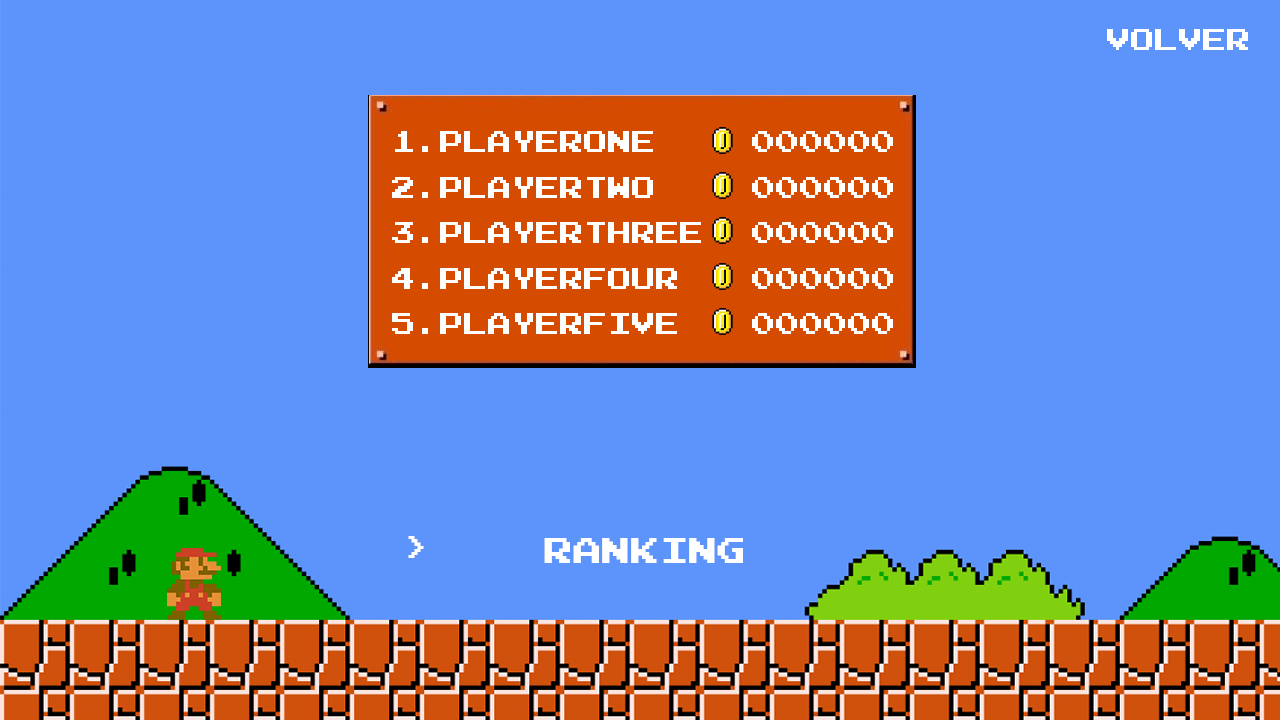
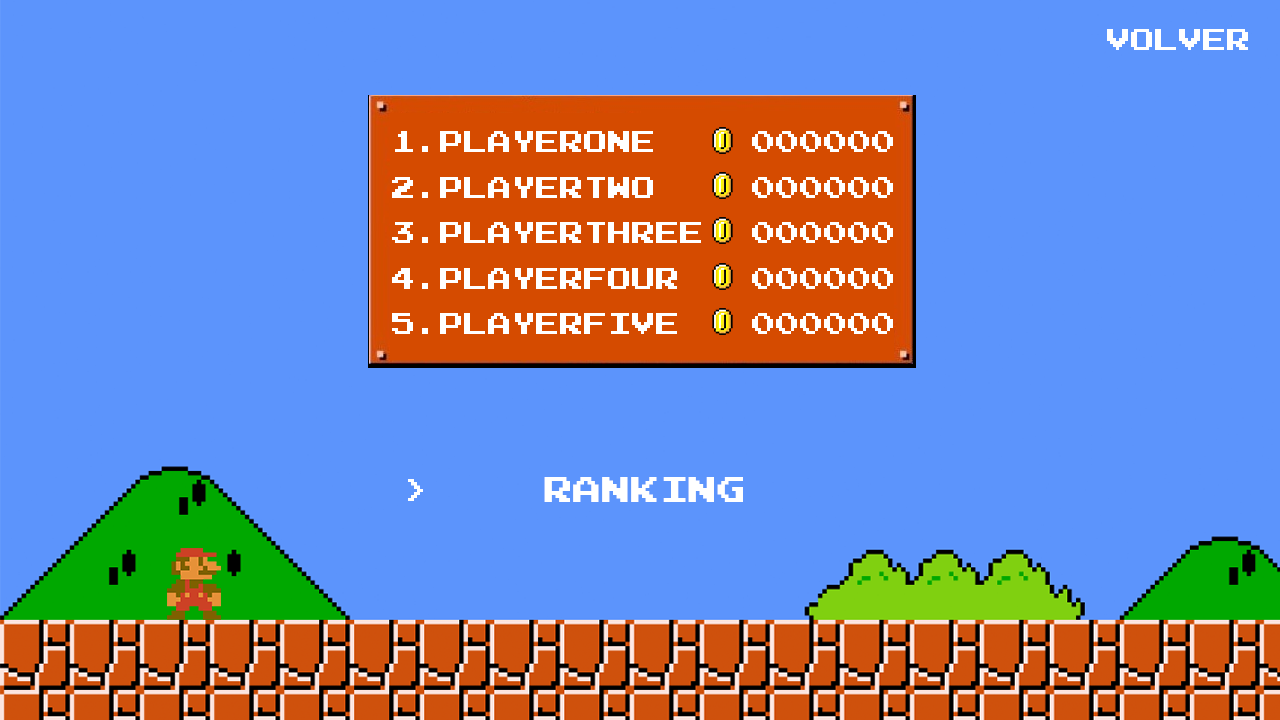
Actualiza gui

diff --git a/Fuentes/src/gui/PanelPantallaMapa.java b/Fuentes/src/gui/PanelPantallaMapa.java
@@ -8,8 +8,7 @@ import java.awt.Font;
 import java.awt.FontFormatException;
 import java.awt.event.ActionEvent;
 import java.io.IOException;
-import java.io.InputStream;
-
+import java.io.File;
 import javax.swing.AbstractAction;
 import javax.swing.ImageIcon;
 import javax.swing.JComponent;
@@ -19,7 +18,6 @@ import javax.swing.JPanel;
 import javax.swing.JScrollBar;
 import javax.swing.JScrollPane;
 import javax.swing.KeyStroke;
-import javax.swing.OverlayLayout; // Importa OverlayLayout
 import logica.*;
 
 /**
@@ -37,6 +35,7 @@ public class PanelPantallaMapa extends JPanel {
     private JLabel label_nivel;
     private JLabel label_tiempo; 
     private JLabel label_vidas;  
+    private Font tipografia;
 
     /**
      * Constructor que inicializa el panel de pantalla del mapa.
@@ -46,7 +45,7 @@ public class PanelPantallaMapa extends JPanel {
         setLayout(new BorderLayout()); // Usar OverlayLayout para superponer componentes
         JLayeredPane layeredPane = new JLayeredPane();
         layeredPane.setPreferredSize(new Dimension(ConstantesVistas.PANEL_ANCHO, ConstantesVistas.PANEL_ALTO));
-        
+        cargar_tipografia("src/assets/tipografia/mario-font.ttf");
         panel_informacion = new JPanel();
         panel_mapa = new JPanel();
         agregar_panel_mapa_con_fondo(panel_mapa);
@@ -143,10 +142,10 @@ public class PanelPantallaMapa extends JPanel {
     }
 
     protected void agregar_labels_editables_informacion() {
-        label_puntaje = new JLabel("      Puntos: 00000      ");
-        label_monedas = new JLabel("Monedas: 00000      ");
-        label_nivel = new JLabel("Nivel: 1-3       ");
-        label_tiempo = new JLabel("Tiempo: 00000      "); 
+        label_puntaje = new JLabel("  Puntos: 00000  ");
+        label_monedas = new JLabel("Monedas: 000  ");
+        label_nivel = new JLabel("Nivel: 1-3   ");
+        label_tiempo = new JLabel("Tiempo: 000  "); 
         label_vidas = new JLabel("Vidas: 0");
 
         decorar_labels_informacion(); // Aplica estilos a los labels
@@ -166,11 +165,15 @@ public class PanelPantallaMapa extends JPanel {
         label_tiempo.setForeground(Color.WHITE);
         label_vidas.setForeground(Color.WHITE);   
 
-        label_puntaje.setFont(new Font(label_puntaje.getFont().getName(), Font.BOLD, 30));
-        label_monedas.setFont(new Font(label_monedas.getFont().getName(), Font.BOLD, 30));
-        label_nivel.setFont(new Font(label_nivel.getFont().getName(), Font.BOLD, 30));
-        label_tiempo.setFont(new Font(label_tiempo.getFont().getName(), Font.BOLD, 30));
-        label_vidas.setFont(new Font(label_vidas.getFont().getName(), Font.BOLD, 30));  
+        if (tipografia != null) {
+            label_puntaje.setFont(tipografia);
+            label_monedas.setFont(tipografia);
+            label_nivel.setFont(tipografia);
+            label_tiempo.setFont(tipografia);
+            label_vidas.setFont(tipografia);
+        } else {
+            System.out.println("Fuente personalizada no cargada, se usa la fuente predeterminada.");
+        }
     }
     
     private void configurar_desplazamiento_con_teclado(JScrollPane scroll) {
@@ -209,6 +212,20 @@ public class PanelPantallaMapa extends JPanel {
                 horizontalBar.setValue(horizontalBar.getValue() + horizontalBar.getUnitIncrement(1));
             }
         });
+    }
+    
+    /**
+     * Método para cargar la fuente personalizada desde un archivo.
+     * @param rutaArchivo La ruta completa al archivo de la fuente TTF.
+     */
+    private void cargar_tipografia(String ruta_archivo) {
+        try {
+            tipografia = Font.createFont(Font.TRUETYPE_FONT, new File(ruta_archivo)).deriveFont(18f);
+        } catch (FontFormatException | IOException e) {
+            e.printStackTrace();
+            System.out.println("No se pudo cargar la fuente personalizada, se usará la fuente predeterminada.");
+            tipografia = new Font("SansSerif", Font.BOLD, 30); // Fuente alternativa en caso de error
+        }
     }
 
 }

diff --git a/Fuentes/src/gui/PanelPantallaPrincipal.java b/Fuentes/src/gui/PanelPantallaPrincipal.java
@@ -16,13 +16,11 @@ public class PanelPantallaPrincipal extends JPanel {
     private JLabel icono_seleccion;
     private JButton boton_iniciar;
     private JButton boton_puntajes;
-    private JButton boton_modo_de_juego; 
     private JButton boton_ayuda; 
     private MenuOpciones opcionActual;
 
     public enum MenuOpciones {
         COMENZAR_JUEGO,
-        MODO_DE_JUEGO,
         RANKING;
 
         public MenuOpciones siguiente() {
@@ -43,7 +41,6 @@ public class PanelPantallaPrincipal extends JPanel {
         agregar_icono_seleccion();
         agregar_boton_iniciar();
         agregar_boton_puntaje();
-        agregar_boton_modo_de_juego();
         agregar_boton_ayuda();
         agregar_imagen_fondo();
         actualizar_icono_seleccion();
@@ -77,11 +74,8 @@ public class PanelPantallaPrincipal extends JPanel {
             case COMENZAR_JUEGO:
                 yOffset = ConstantesVistas.PANEL_ALTO - 320 + 10;
                 break;
-            case MODO_DE_JUEGO:
-                yOffset = ConstantesVistas.PANEL_ALTO - 255 + 10;
-                break;
             case RANKING:
-                yOffset = ConstantesVistas.PANEL_ALTO - 195 + 10;
+                yOffset = ConstantesVistas.PANEL_ALTO - 255 + 10;
                 break;
         }
         icono_seleccion.setLocation(xOffset, yOffset);
@@ -98,17 +92,9 @@ public class PanelPantallaPrincipal extends JPanel {
     protected void agregar_boton_puntaje() {
         boton_puntajes = new JButton(" ");
         transparentar_boton(boton_puntajes);
-        boton_puntajes.setBounds((ConstantesVistas.PANEL_ANCHO / 2) - 180, ConstantesVistas.PANEL_ALTO - 195, 350, 50);
+        boton_puntajes.setBounds((ConstantesVistas.PANEL_ANCHO / 2) - 180, ConstantesVistas.PANEL_ALTO - 255, 360, 50);
         registrar_oyente_boton_puntajes();
         add(boton_puntajes);
-    }
-
-    protected void agregar_boton_modo_de_juego() {
-        boton_modo_de_juego = new JButton(" ");
-        transparentar_boton(boton_modo_de_juego);
-        boton_modo_de_juego.setBounds((ConstantesVistas.PANEL_ANCHO / 2) - 180, ConstantesVistas.PANEL_ALTO - 255, 360, 50);
-        boton_modo_de_juego.addActionListener(e -> controlador_vistas.accionar_pantalla_modo_juego());
-        add(boton_modo_de_juego);
     }
 
     protected void agregar_boton_ayuda() {
@@ -146,9 +132,6 @@ public class PanelPantallaPrincipal extends JPanel {
         switch (opcionActual) {
             case COMENZAR_JUEGO:
             	controlador_vistas.accionar_pantalla_modo_juego();
-                break;
-            case MODO_DE_JUEGO:
-                controlador_vistas.accionar_pantalla_modo_juego();
                 break;
             case RANKING:
                 controlador_vistas.accionar_pantalla_ranking();

diff --git a/Fuentes/src/gui/PanelPantallaModoDeJuego.java b/Fuentes/src/gui/PanelPantallaModoDeJuego.java
@@ -81,17 +81,11 @@ public class PanelPantallaModoDeJuego extends JPanel {
         boton_mario.setBounds((ConstantesVistas.PANEL_ANCHO / 2) - 150, ConstantesVistas.PANEL_ALTO / 2 - 180, 300, 50);
         boton_luigi.setBounds((ConstantesVistas.PANEL_ANCHO / 2) - 150, ConstantesVistas.PANEL_ALTO / 2 - 120, 300, 50);
 
-        boton_mario.addActionListener(e -> seleccionar_personaje(MenuOpciones.MARIO));
-        boton_luigi.addActionListener(e -> seleccionar_personaje(MenuOpciones.LUIGI));
-
+        boton_mario.addActionListener(e -> ejecutar_accion_seleccionada());
+        boton_luigi.addActionListener(e -> ejecutar_accion_seleccionada());
+        
         add(boton_mario);
         add(boton_luigi);
-    }
-
-    protected void seleccionar_personaje(MenuOpciones opcion) {
-        this.opcionActual = opcion;
-        actualizar_icono_seleccion(); // Actualizar el icono de selección al seleccionar un personaje
-        
     }
 
     protected void transparentar_boton(JButton boton) {
@@ -117,7 +111,7 @@ public class PanelPantallaModoDeJuego extends JPanel {
         add(boton_volver);
     }
 
-	public void mover_seleccion(boolean haciaArriba) {
+    protected void mover_seleccion(boolean haciaArriba) {
         if (haciaArriba) {
             opcionActual = opcionActual.anterior();
         } else {
@@ -126,23 +120,20 @@ public class PanelPantallaModoDeJuego extends JPanel {
         actualizar_icono_seleccion();
 	}
 
-	public void ejecutar_accion_seleccionada() {
+    protected void ejecutar_accion_seleccionada() {
         switch (opcionActual) {
-        case MARIO:
-        	SpritesFactory fabrica_mario = new Dominio1Factory();
-        	generador = new EntidadesFactory(fabrica_mario);
-        	
-        	controlador_vistas.notificar_eleccion(generador);
-        	
-        	controlador_vistas.mostrar_pantalla_mapa();
-
-            break;
-        case LUIGI:
-            SpritesFactory fabrica_luigi = new Dominio2Factory();
-            generador = new EntidadesFactory(fabrica_luigi);
-            controlador_vistas.mostrar_pantalla_mapa();
-            break;
-
-    }
+	        case MARIO:
+	        	SpritesFactory fabrica_mario = new Dominio1Factory();
+	        	generador = new EntidadesFactory(fabrica_mario);	        	
+	        	controlador_vistas.notificar_eleccion(generador);
+	        	controlador_vistas.mostrar_pantalla_mapa();
+	            break;
+	        case LUIGI:
+	            SpritesFactory fabrica_luigi = new Dominio2Factory();
+	            generador = new EntidadesFactory(fabrica_luigi);
+	            controlador_vistas.notificar_eleccion(generador);
+	            controlador_vistas.mostrar_pantalla_mapa();
+	            break;
+        }
 	}
 }

diff --git a/Fuentes/src/gui/ControladorDeVistas.java b/Fuentes/src/gui/ControladorDeVistas.java
@@ -1,9 +1,6 @@
 package gui;
 
-import java.awt.Font;
 import java.awt.Image;
-import java.awt.event.ActionEvent;
-import java.awt.event.ActionListener;
 import java.awt.event.KeyAdapter;
 import java.awt.event.KeyEvent;
 import java.io.IOException;
@@ -11,8 +8,6 @@ import javax.imageio.ImageIO;
 import javax.swing.JComboBox;
 import javax.swing.JFrame;
 
-import fabricas.Dominio1Factory;
-import fabricas.Dominio2Factory;
 import fabricas.EntidadesFactory;
 import fabricas.SpritesFactory;
 import logica.EntidadJugador;
@@ -22,7 +17,6 @@ import logica.Observer;
 
 public class ControladorDeVistas implements ControladorEntreJuegoVista, ControladorJuegoVista {
     protected JFrame ventana;
-    protected Font tipografia;
     protected JComboBox<SpritesFactory> combo_box;
     protected PanelPantallaPrincipal panel_pantalla_principal;
     protected PanelPantallaMapa panel_pantalla_mapa;
@@ -53,7 +47,7 @@ public class ControladorDeVistas implements ControladorEntreJuegoVista, Controla
         ventana.setLocationRelativeTo(null);
         Image icono;
         try {
-            icono = ImageIO.read(getClass().getResourceAsStream("/assets/imagenes/sprites/dominio1/mario_ocioso_derecha.png"));
+            icono = ImageIO.read(getClass().getResourceAsStream("/assets/imagenes/icon.png"));
             ventana.setIconImage(icono);
         } catch (IOException e) {
             e.printStackTrace();
@@ -109,7 +103,7 @@ public class ControladorDeVistas implements ControladorEntreJuegoVista, Controla
 
     public void accionar_inicio_juego() {
         // juego.cargar_datos(new EntidadesFactory(new Dominio1Factory())); // Cargar los datos
-        
+    	accionar_pantalla_modo_juego();
     }
 
     public void mostrar_pantalla_mapa() {
@@ -134,9 +128,8 @@ public class ControladorDeVistas implements ControladorEntreJuegoVista, Controla
         panel_pantalla_modo_de_juego.setFocusable(true);
         panel_pantalla_modo_de_juego.requestFocusInWindow(); // Solicita el foco
         refrescar();        
-        }
+    }
     
-
     protected void refrescar() {
         ventana.revalidate();
         ventana.repaint();
